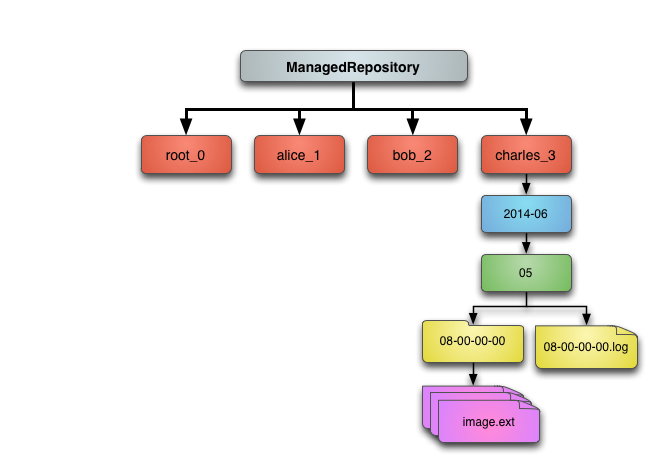
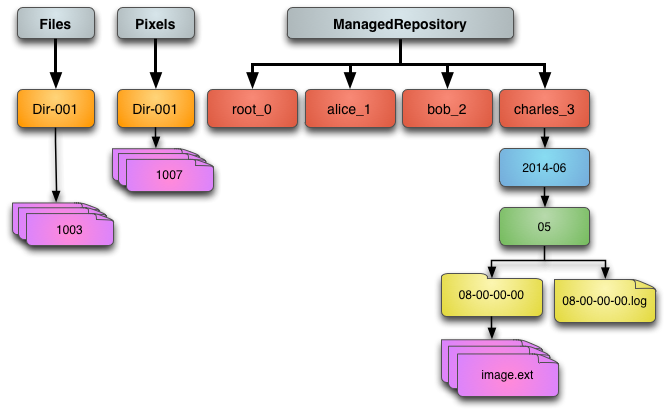
Add legacy data to managedrepo intro diagram

diff --git a/2014/fs-workshop-paris/index.html b/2014/fs-workshop-paris/index.html
@@ -76,15 +76,14 @@
 
         <!-- Introduction - Colin/Mark ?? -->
         <section>
-            <h2>Introduction to OMERO 5</h2>
-            <ul>
-                <li>OMERO 5 Import</li>
-                <li>ManagedRepository</li>
-                <li>Filesets</li>
-                <li>Upgrades</li>
-            </ul>
-            <aside class="notes">
-            </aside>
+          <h2>Introduction to OMERO 5</h2>
+          <ul>
+            <li>OMERO 5 Import</li>
+            <li>ManagedRepository</li>
+            <li>Filesets</li>
+          </ul>
+          <aside class="notes">
+          </aside>
         </section>
 
         <section>
@@ -193,10 +192,15 @@
                   <li>where filesets live</li>
                   <li>each Fileset in its own subdirectory</li>
                 </ul>
+                <li>new OMERO users should use OMERO 5</li>
+                <li>upgrade scripts provided from OMERO 4</li>
+                <li><q>pre-FS</q> images still Pixels, not in Fileset</li>
+                <li><q>synthetic</q> images also not in Fileset</li>
+                <ul>
+                  <li>for instance: projections, kymographs</li>
+                </ul>
+                <li>More advanced use later.</li>
               </ul>
-              <p>
-                More advanced use later.
-              </p>
             </aside>
           </section>
 
@@ -214,6 +218,23 @@
             </ul>
             <aside class="notes">
               More advanced use later.
+            </aside>
+          </section>
+
+          <section>
+            <h3>Migrating to FS</h3>
+            <ul>
+              <li>new OMERO users should use OMERO 5</li>
+              <li>upgrade scripts provided from OMERO 4</li>
+              <li><q>pre-FS</q> images still Pixels, not in Fileset</li>
+              <li><q>synthetic</q> images also not in Fileset</li>
+              <ul>
+                <li>for instance: projections, kymographs</li>
+              </ul>
+            </ul>
+            <aside class="notes">
+              We need to make it clear here that this is just the upgrade
+              rather than the data transformation Josh covers later.
             </aside>
           </section>
         </section>
@@ -281,23 +302,6 @@
             <aside class="notes">
             </aside>
           </section>
-        </section>
-
-        <section>
-          <h3>Migrating to FS</h3>
-          <ul>
-            <li>new OMERO users should use OMERO 5</li>
-            <li>upgrade scripts provided from OMERO 4</li>
-            <li><q>pre-FS</q> images still Pixels, not in Fileset</li>
-            <li><q>synthetic</q> images also not in Fileset</li>
-            <ul>
-              <li>for instance: projections, kymographs</li>
-            </ul>
-          </ul>
-            <aside class="notes">
-              We need to make it clear here that this is just the upgrade
-              rather than the data transformation Josh covers later.
-            </aside>
         </section>
 
         <!-- Advanced import - Colin ?? -->
